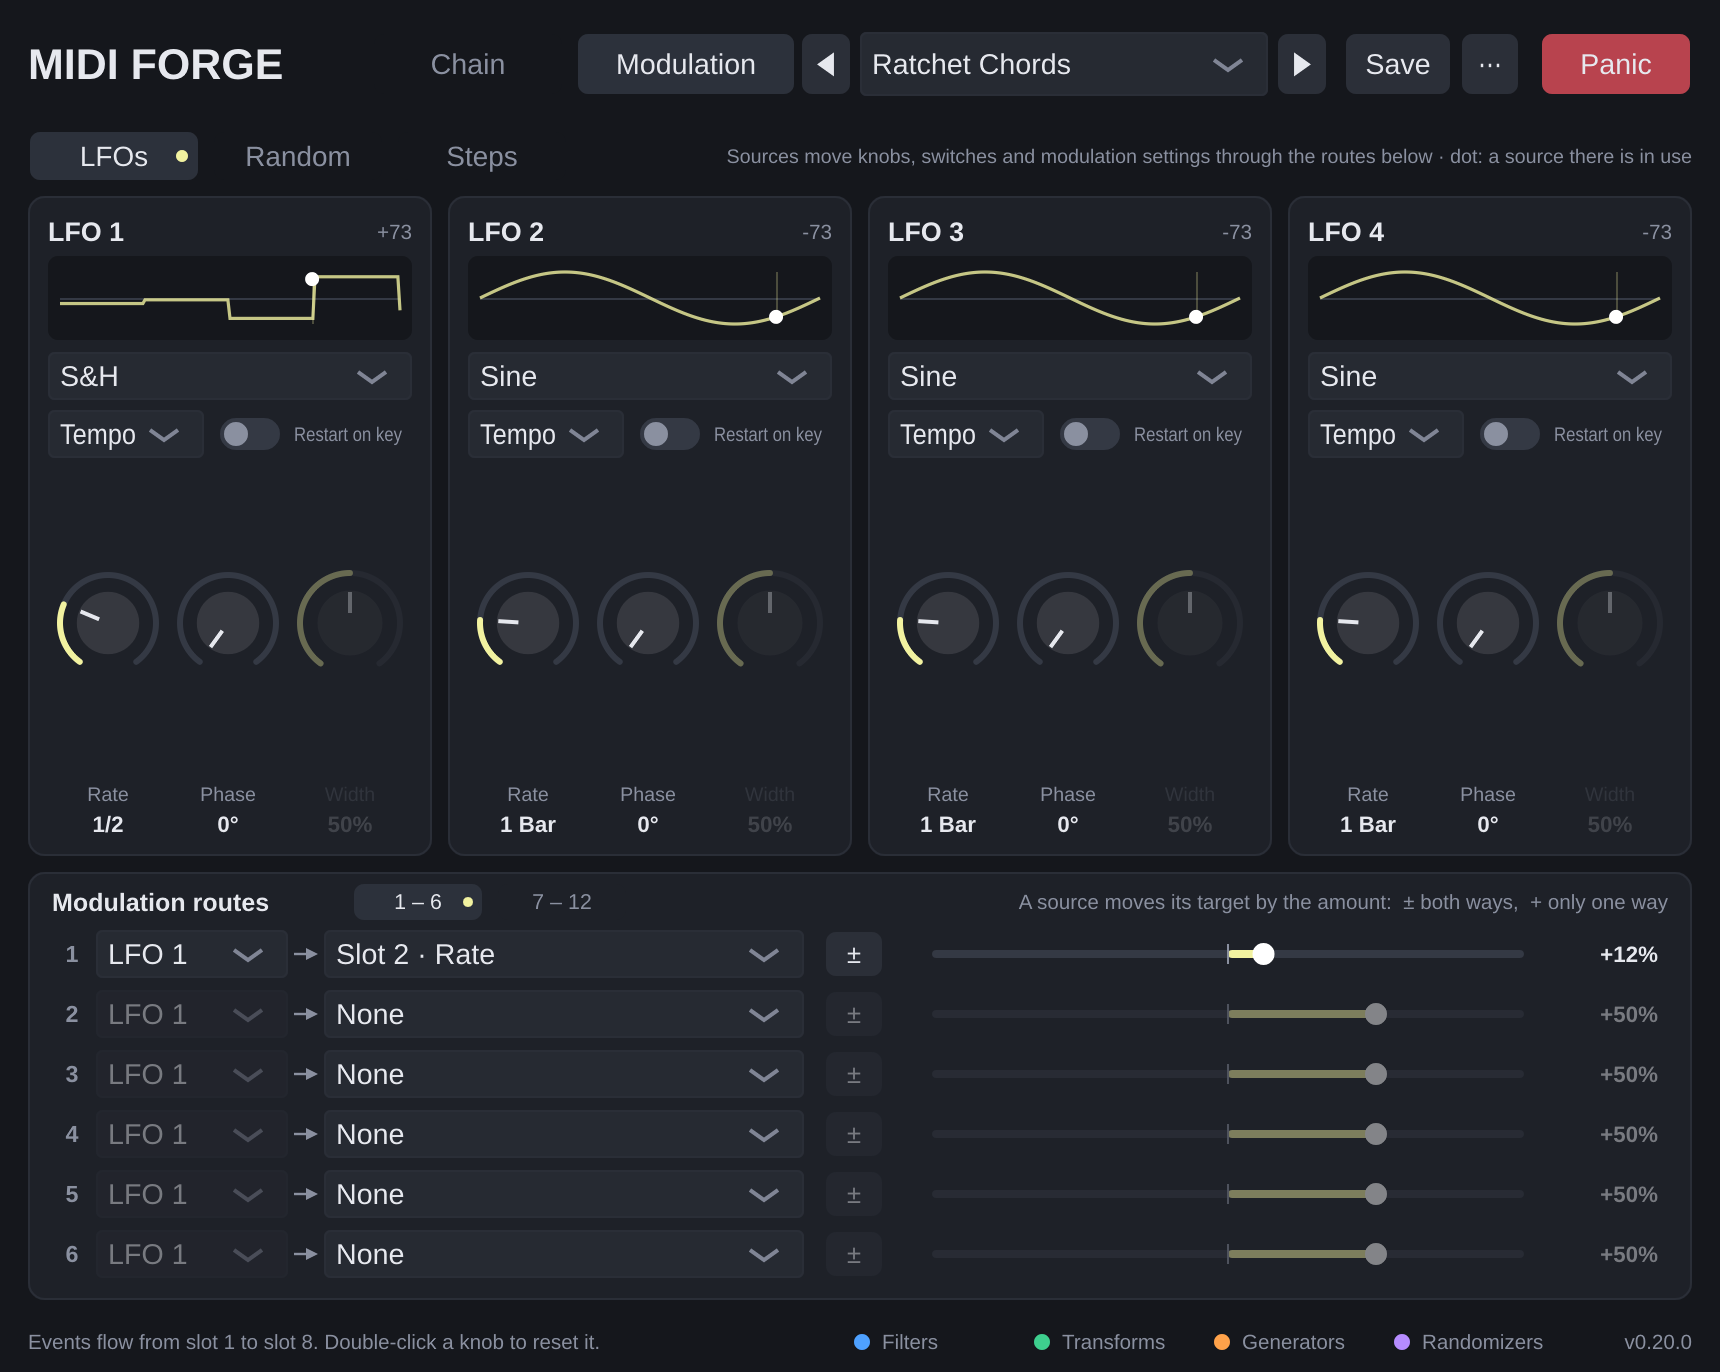
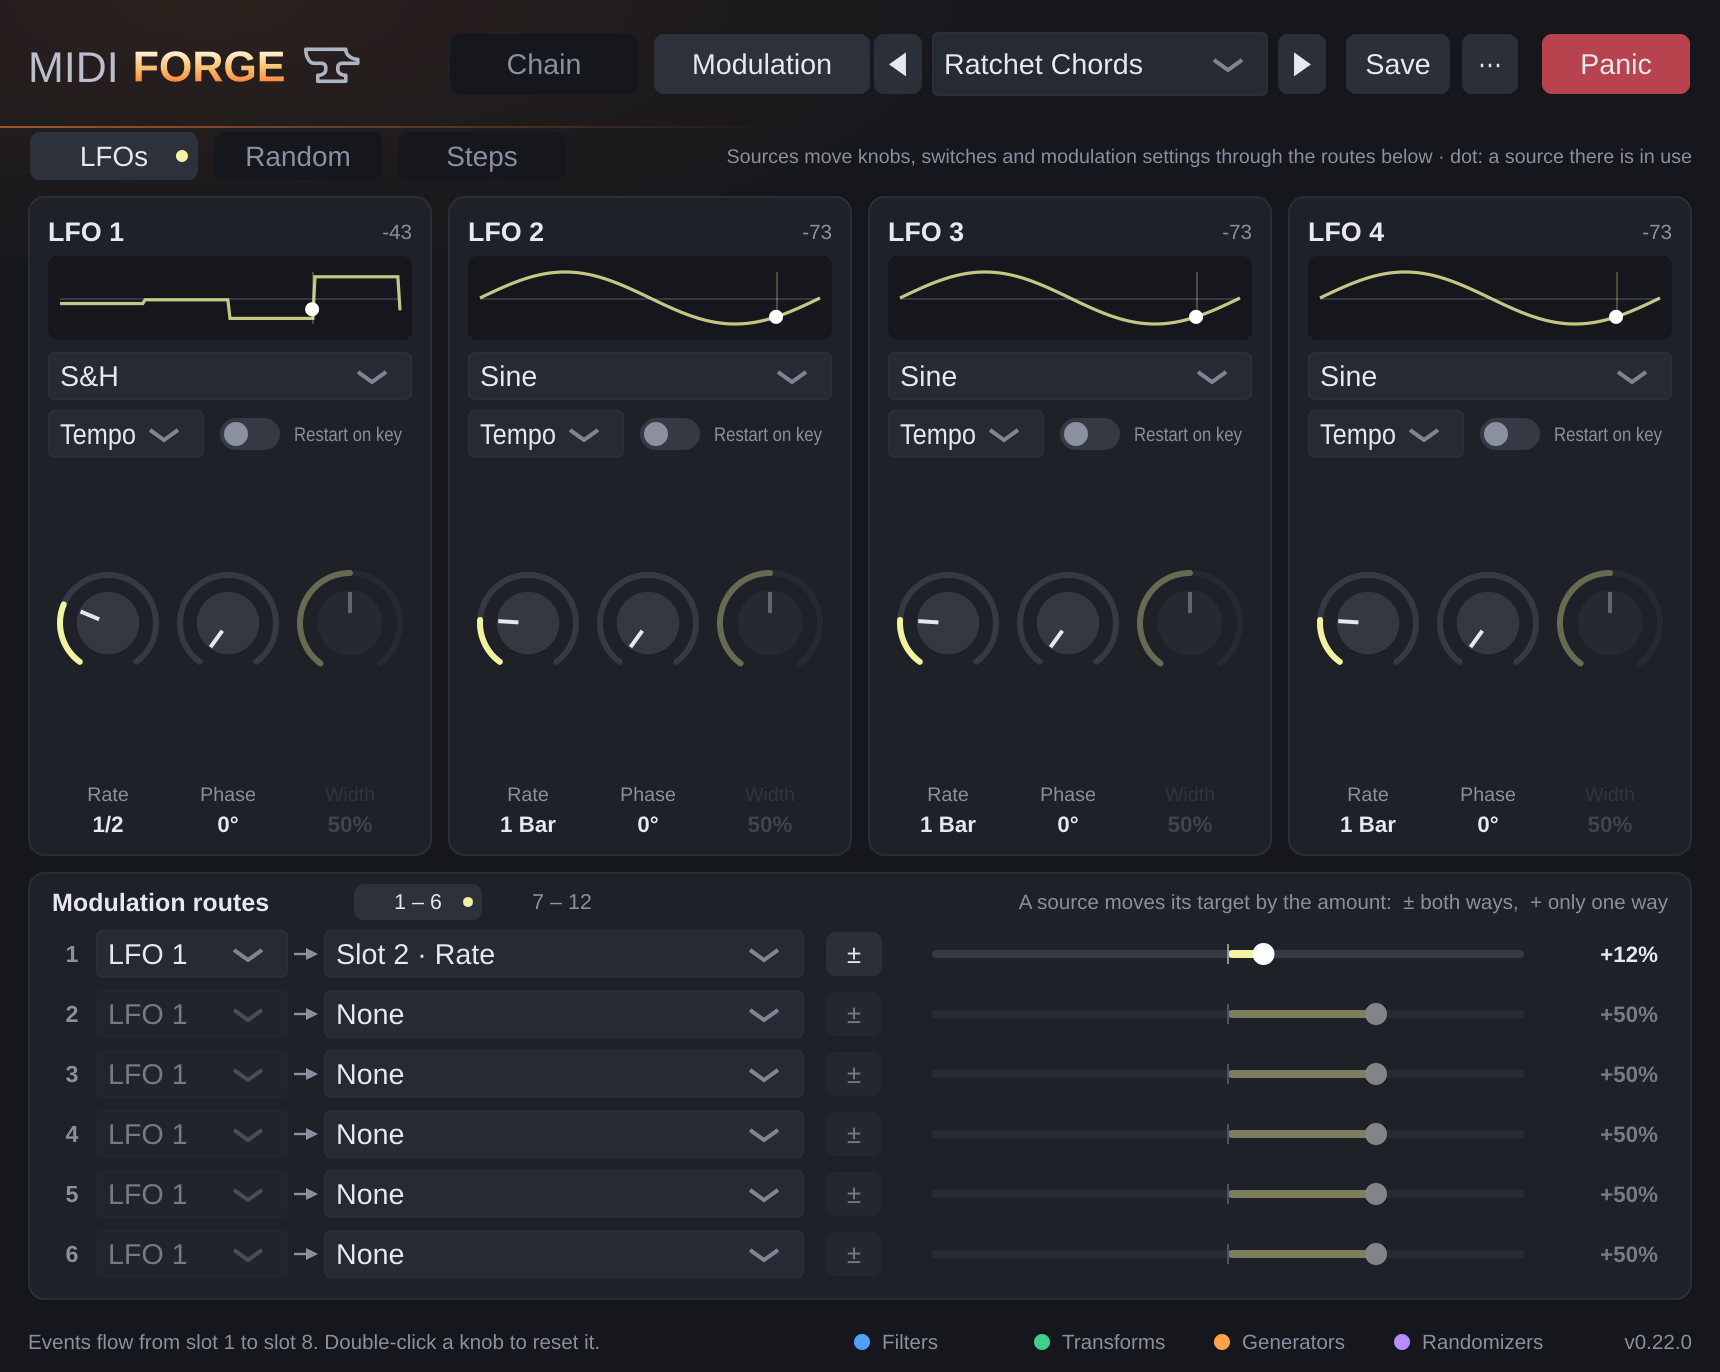
0.22.0: forge look for the header, macOS build back
- Header: word mark with MIDI in grey, FORGE in a glowing-metal gradient and an
  anvil after it (theme option E), a faint warm glow behind it and an ember
  line under the header; drawn with paths (ForgeLogo), no image files.
- macOS VST3 back in CI: universal binary, ad-hoc signed, zipped with ditto in
  the job; the release takes that zip as it is. Install notes (quarantine) in
  the manual and INSTALL.txt. CLAP stays off.

Claude-Session: https://claude.ai/code/session_011c1zajGascajH5TiTkJMws

Changed region(s): [[0.2465, 0.0, 0.6779, 0.0918], [0.0, 0.0306, 0.2157, 0.0612]]

diff --git a/Source/UI/ForgeLogo.cpp b/Source/UI/ForgeLogo.cpp
@@ -1,0 +1,102 @@
+/**
+ * @file ForgeLogo.cpp
+ * @brief Implementation of the header's word mark, glow and ember line.
+ */
+#include "ForgeLogo.h"
+
+#include "Theme.h"
+
+namespace midiforge::ForgeLogo
+{
+
+namespace
+{
+const juce::Colour midiColour { 0xffb9bfcc };    ///< "MIDI": quiet grey (contrast > 9:1 on the window)
+const juce::Colour metalWhiteHot { 0xfffff1d6 }; ///< Top of "FORGE"
+const juce::Colour metalAmber { 0xffffc070 };    ///< Middle of "FORGE"
+const juce::Colour metalOrange { 0xffff8a3d };   ///< Bottom of "FORGE" (contrast about 7:1 on the window)
+const juce::Colour anvilSteel { 0xffaeb5c2 };
+const juce::Colour emberGlow { 0xffff8030 };
+const juce::Colour emberLine { 0xffff8c3c };
+
+constexpr float fontHeight = 24.0f;
+constexpr float gapAfterMidi = 7.0f;
+constexpr float gapBeforeAnvil = 9.0f;
+constexpr float anvilHeight = 22.0f;
+
+/** @return The outline of a text as a path, its baseline at y = 0 and starting at x = 0. */
+juce::Path textPath (const juce::String& text, const juce::Font& font)
+{
+    juce::GlyphArrangement glyphs;
+    glyphs.addLineOfText (font, text, 0.0f, 0.0f);
+    juce::Path path;
+    glyphs.createPath (path);
+    return path;
+}
+
+float textWidth (const juce::String& text, const juce::Font& font)
+{
+    juce::GlyphArrangement glyphs;
+    glyphs.addLineOfText (font, text, 0.0f, 0.0f);
+    return glyphs.getBoundingBox (0, -1, true).getRight();
+}
+} // namespace
+
+juce::Path createAnvilPath()
+{
+    // Face, horn to the right, waist and foot, drawn as one outline (30 × 22 units).
+    return juce::Drawable::parseSVGPath (
+        "M2 3h20c0 3 3 5 6 5v2H20c-1 0-2 1-2 2v1c0 2 2 3 4 3v3H8v-3c2 0 4-1 4-3v-1c0-1-1-2-2-2H6C4 10 2 7 2 3z");
+}
+
+void paintHeaderBackground (juce::Graphics& graphics, juce::Rectangle<int> header)
+{
+    // A faint warm glow behind the logo: an ellipse 420 × 150 px around the top-left corner, at most 10 %.
+    {
+        juce::Graphics::ScopedSaveState savedState (graphics);
+        const juce::Point<float> centre ((float) header.getX() + 104.0f, (float) header.getY());
+        graphics.addTransform (juce::AffineTransform::scale (1.0f, 150.0f / 420.0f, centre.x, centre.y));
+        graphics.setGradientFill (juce::ColourGradient (emberGlow.withAlpha (0.10f), centre, emberGlow.withAlpha (0.0f),
+                                                        centre.translated (420.0f, 0.0f), true));
+        graphics.fillRect (header.getX(), header.getY() - 420, 840, 840);
+    }
+
+    // The ember line along the bottom of the header, fading out to the right.
+    const auto line = header.removeFromBottom (1).toFloat();
+    graphics.setGradientFill (juce::ColourGradient (emberLine.withAlpha (0.55f), line.getX(), line.getY(),
+                                                    emberLine.withAlpha (0.0f), line.getX() + line.getWidth() * 0.45f,
+                                                    line.getY(), false));
+    graphics.fillRect (line);
+}
+
+void paintWordMark (juce::Graphics& graphics, juce::Rectangle<int> area)
+{
+    const auto regularFont = Theme::font (fontHeight);
+    const auto boldFont = Theme::font (fontHeight, true);
+    const float baseline = (float) area.getCentreY() + fontHeight * 0.36f;
+    float x = (float) area.getX();
+
+    graphics.setColour (midiColour);
+    graphics.setFont (regularFont);
+    graphics.drawSingleLineText ("MIDI", juce::roundToInt (x), juce::roundToInt (baseline));
+    x += textWidth ("MIDI", regularFont) + gapAfterMidi;
+
+    // "FORGE" as glowing metal: white-hot at the top, amber in the middle, orange at the bottom.
+    auto forge = textPath ("FORGE", boldFont);
+    forge.applyTransform (juce::AffineTransform::translation (x, baseline));
+    const auto bounds = forge.getBounds();
+    juce::ColourGradient metal (metalWhiteHot, 0.0f, bounds.getY(), metalOrange, 0.0f, bounds.getBottom(), false);
+    metal.addColour (0.55, metalAmber);
+    graphics.setGradientFill (metal);
+    graphics.fillPath (forge);
+    x = bounds.getRight() + gapBeforeAnvil;
+
+    // The anvil after the name, its base on the text's baseline.
+    auto anvil = createAnvilPath();
+    anvil.applyTransform (juce::AffineTransform::translation (x, baseline - anvilHeight + 3.0f));
+    graphics.setColour (anvilSteel);
+    graphics.strokePath (anvil,
+                         juce::PathStrokeType (1.8f, juce::PathStrokeType::curved, juce::PathStrokeType::rounded));
+}
+
+} // namespace midiforge::ForgeLogo

diff --git a/Source/UI/PluginEditor.cpp b/Source/UI/PluginEditor.cpp
@@ -4,6 +4,7 @@
  */
 #include "PluginEditor.h"
 
+#include "ForgeLogo.h"
 #include "Theme.h"
 
 namespace midiforge
@@ -14,6 +15,7 @@ MidiForgeEditor::MidiForgeEditor (MidiForgeProcessor& processorToEdit)
       modulationPage (processorToEdit)
 {
     setLookAndFeel (&lookAndFeel);
+    setTitle ("MIDI Forge"); // the painted word mark, for screen readers
 
     addAndMakeVisible (presetBar);
 
@@ -77,10 +79,9 @@ void MidiForgeEditor::paint (juce::Graphics& graphics)
     using namespace Theme::Layout;
     graphics.fillAll (Theme::Colours::windowBackground);
 
-    auto header = getLocalBounds().removeFromTop (headerHeight).reduced (outerMargin, 0);
-    graphics.setColour (Theme::Colours::primaryText);
-    graphics.setFont (Theme::font (24.0f, true));
-    graphics.drawText ("MIDI FORGE", header.removeFromLeft (170), juce::Justification::centredLeft);
+    const auto header = getLocalBounds().removeFromTop (headerHeight);
+    ForgeLogo::paintHeaderBackground (graphics, header);
+    ForgeLogo::paintWordMark (graphics, header.reduced (outerMargin, 0).withWidth (ForgeLogo::width));
 
     paintFooter (graphics);
 }
@@ -117,7 +118,7 @@ void MidiForgeEditor::resized()
     auto area = getLocalBounds();
 
     auto header = area.removeFromTop (headerHeight).reduced (outerMargin, 16);
-    header.removeFromLeft (172); // title
+    header.removeFromLeft (ForgeLogo::width + 4); // the word mark
     chainTab.setBounds (header.removeFromLeft (96));
     header.removeFromLeft (6);
     modulationTab.setBounds (header.removeFromLeft (110));

diff --git a/Source/UI/ForgeLogo.h b/Source/UI/ForgeLogo.h
@@ -1,0 +1,34 @@
+/**
+ * @file ForgeLogo.h
+ * @brief The "forge" look of the header: the word mark (MIDI in grey, FORGE in glowing metal, an anvil after
+ *        it), a faint warm glow behind it and a thin ember line under the header.
+ *
+ * Everything is drawn with paths and gradients (no image files), so it stays sharp at any display scale.
+ * It is decoration only: it never sits behind small text, uses no yellow (reserved for modulated values) and
+ * does not move.
+ */
+#pragma once
+
+#include <juce_gui_basics/juce_gui_basics.h>
+
+namespace midiforge::ForgeLogo
+{
+
+/** Width the word mark needs, including the anvil, at the header's size. */
+constexpr int width = 206;
+
+/**
+ * Draws the warm glow behind the logo and the ember line along the bottom of the header.
+ * @param header The header area (the whole width of the editor, the header's height).
+ */
+void paintHeaderBackground (juce::Graphics& graphics, juce::Rectangle<int> header);
+
+/**
+ * Draws the word mark, left-aligned and vertically centred in an area of at least `width` × 30 px.
+ */
+void paintWordMark (juce::Graphics& graphics, juce::Rectangle<int> area);
+
+/** @return The anvil outline, 30 × 22 units, horn to the right. */
+juce::Path createAnvilPath();
+
+} // namespace midiforge::ForgeLogo

diff --git a/docs/ARCHITECTURE.md b/docs/ARCHITECTURE.md
@@ -45,7 +45,7 @@ connects it to JUCE, which provides the VST3 wrapper, parameters and the editor.
 | `Source/Plugin/FactoryPresets.*` | The factory presets (JUCE-free, so the engine tests can check them too) |
 | `Source/Plugin/UserPresetLibrary.*` | User preset files: folder, save/load/rename/delete/import, validation, name cleaning |
 | `Source/Plugin/RecentModuleList.*` | The recently used modules of the module browser, shared by all instances via `juce::SharedResourcePointer`, saved in `Documents/MIDI Forge/Settings.xml` |
-| `Source/UI/*` | Editor: `MidiForgeEditor` (tabs), `SlotRow` + `ParameterKnob` (Chain tab), `ModuleBrowser` + `ModuleInfoView` (pop-ups of the module menu and the ⓘ button), `ModulationPage` with `LfoPanel`, `WaveformPreview`, `NoteRandomPanel`, `RouteRow`, `CompactKnob` (Modulation tab), `PresetBar` (◀ menu ▶, Save, ⋯ menu with async dialogs), `ForgeLookAndFeel`, `Theme`. `ParameterKnob::attachTo()` sets the knob's step interval from the parameter description, so stepped parameters snap while dragging |
+| `Source/UI/*` | Editor: `MidiForgeEditor` (tabs; the header's word mark, glow and ember line come from `ForgeLogo`, drawn with paths and gradients), `SlotRow` + `ParameterKnob` (Chain tab), `ModuleBrowser` + `ModuleInfoView` (pop-ups of the module menu and the ⓘ button), `ModulationPage` with `LfoPanel`, `WaveformPreview`, `NoteRandomPanel`, `RouteRow`, `CompactKnob` (Modulation tab), `PresetBar` (◀ menu ▶, Save, ⋯ menu with async dialogs), `ForgeLookAndFeel`, `Theme`. `ParameterKnob::attachTo()` sets the knob's step interval from the parameter description, so stepped parameters snap while dragging |
 | `Tests/Engine/*` | Engine tests (no JUCE) |
 | `Tests/Plugin/*` | Tests of the JUCE layer; can also render both editor pages and the module pop-ups to PNGs |
 | `docs/` | This document, the user manual, images |
@@ -337,10 +337,16 @@ See [CONTRIBUTING.md](../CONTRIBUTING.md#building) for commands. The workflow
 1. **Checks** (Linux): clang-format, clang-tidy, engine tests with warnings as errors, engine tests
    under address/UB sanitizers, plug-in layer tests, and screenshots of both editor pages (artifact
    `editor-screenshots`, the source of `docs/images/editor.png` and `docs/images/modulation.png`).
-2. **Plug-in build** (Windows): the VST3 and INSTALL.txt as artifact `MIDI-Forge-Windows` (uploaded as a
-   folder; GitHub zips artifacts itself, so the download is a single zip). macOS and CLAP builds
-   are switched off for now; CMake still knows both (universal binary on macOS, `MIDI_FORGE_BUILD_CLAP`).
-3. **Release** (tags `v*` only): zips each artifact folder and attaches the zips to a GitHub Release.
+2. **Plug-in build** (Windows and macOS, in parallel): the VST3, INSTALL.txt and LICENSE.txt.
+   - Windows: artifact `MIDI-Forge-Windows`, uploaded as a folder (GitHub zips artifacts itself, so the
+     download is a single zip).
+   - macOS (0.22.0): a universal binary (arm64 + x86_64, macOS 11+), ad-hoc signed with `codesign` (no Apple
+     Developer account, so not notarized; users clear the quarantine flag, see INSTALL.txt) and checked with
+     `lipo`. It is zipped with `ditto` in the job, because a GitHub artifact loses the bundle's file
+     permissions; artifact `MIDI-Forge-macOS` holds that zip.
+   - CLAP stays switched off (`MIDI_FORGE_BUILD_CLAP`).
+3. **Release** (tags `v*` only): zips each artifact folder (the macOS zip is taken as it is) and attaches the
+   zips to a GitHub Release.
 
 Dependencies (JUCE 9.0.4; clap-juce-extensions only with CLAP switched on) are fetched by CMake at pinned versions; GitHub
 Actions are pinned to commit SHAs and updated by Dependabot.

diff --git a/docs/IDEAS.md b/docs/IDEAS.md
@@ -20,7 +20,8 @@ Agreed order (28 Oct 2026). Each step: design discussion, explicit go, build.
 4. ~~Beat Thinning + Diatonic Harmonizer (0.19), time signatures followed everywhere~~ built
 5. ~~Modulating the modulation (0.20)~~ built
 6. ~~Pitch Slide: Fall Off (0.21)~~ built
-- Later, separately: Pitch Slide MPE. Parked until the owner wants it: macOS and CLAP builds.
+- Next: the forge look of the header and the macOS build again (0.22, built). Later, separately: Pitch Slide
+  MPE. Parked until the owner wants it: CLAP build.
 
 ## Planned
 
@@ -28,12 +29,11 @@ Agreed order (28 Oct 2026). Each step: design discussion, explicit go, build.
 
 ## Ideas
 
-### macOS and CLAP builds
+### CLAP build
 
-Switched off in 0.9.0 because only the Windows VST3 is needed for now. CMake still builds a universal binary
-on macOS, and `-DMIDI_FORGE_BUILD_CLAP=ON` brings CLAP back. To return: add the macOS job to the CI matrix
-again (ad-hoc `codesign`, `ditto` zip), add the CLAP target and file to the build and collect steps, and put
-the install folders and the macOS quarantine note back into the manual and packaging/INSTALL.txt.
+Switched off in 0.9.0. `-DMIDI_FORGE_BUILD_CLAP=ON` brings it back; then add the CLAP target and file to the
+build and collect steps of the workflow (and sign it on macOS), and add its install folders to the manual and
+packaging/INSTALL.txt.
 
 ### Pitch Slide: MPE
 

diff --git a/docs/MANUAL.md b/docs/MANUAL.md
@@ -20,11 +20,21 @@ stack in **slots**.
 
 ## Installation
 
-Download `MIDI-Forge-Windows.zip` from the project's **Releases** page on GitHub (or, for test builds,
-from the **Actions** tab → latest successful run → *Artifacts*) and copy `MIDI Forge.vst3` to
-`C:\Program Files\Common Files\VST3\`.
+Download the zip for your system from the project's **Releases** page on GitHub (or, for test builds,
+from the **Actions** tab → latest successful run → *Artifacts*):
 
-Then let your DAW rescan its plug-ins.
+- **Windows** (`MIDI-Forge-Windows.zip`): copy `MIDI Forge.vst3` to `C:\Program Files\Common Files\VST3\`.
+- **macOS** (`MIDI-Forge-macOS.zip`, macOS 11 or newer, Apple Silicon and Intel): copy `MIDI Forge.vst3` to
+  `~/Library/Audio/Plug-Ins/VST3/`. The plug-in is not notarized by Apple, so macOS quarantines it after the
+  download and your DAW will not load it. Remove the quarantine flag once, in Terminal:
+
+  ```sh
+  xattr -dr com.apple.quarantine ~/Library/Audio/Plug-Ins/VST3/"MIDI Forge.vst3"
+  ```
+
+  (A test build from *Actions* arrives as a zip that holds `MIDI-Forge-macOS.zip`; unzip both.)
+
+Then let your DAW rescan its plug-ins. Logic Pro is not supported (it only loads Audio Units).
 
 ## Where to put it in your DAW
 

diff --git a/README.md b/README.md
@@ -5,7 +5,7 @@ and randomizers – in front of any instrument.
 
 ![MIDI Forge](docs/images/editor.png)
 
-- **Format:** VST3 · **System:** Windows
+- **Format:** VST3 · **System:** Windows, macOS (11 or newer, Apple Silicon and Intel)
 - **Made for:** Reaper and Bitwig Studio (any host that supports MIDI-effect plug-ins should work)
 - **24 modules:** Note Range, Velocity Range, Channel Filter, Event Blocker, Note Split, Transpose, Scale Quantize,
   Velocity Curve, Channel Remap, Note Dispatcher, Groove, Diatonic Harmonizer, Arpeggiator, Chord, Note Echo,
